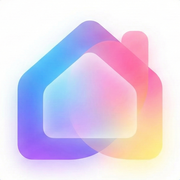
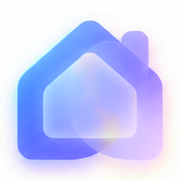
feat: アプリ名を「暮らしと精算」に変え、アイコンの色をアプリの色に合わせる
- アプリ名を「Kurasel」から「暮らしと精算」に（タイトル・iPhoneのホーム画面・manifest・ログイン画面・README）
- アイコンは形と質感はそのままに、色をスカイ〜バイオレット（アプリ内の色）に変更
  180/192/512 を透明なしの正方形で書き出し

diff --git a/app/layout.tsx b/app/layout.tsx
@@ -19,19 +19,19 @@ export const viewport: Viewport = {
   viewportFit: "cover",
 };
 
-// アプリ名は「Kurasel」、キャッチコピーは「暮らしと精算」で統一する。
+// アプリ名は「暮らしと精算」で統一する（以前の「Kurasel」から改名）。
 // iPhone のホーム画面に出る名前は appleWebApp.title、Android などは manifest の short_name。
 // アイコンは app/icon.png（ファビコン）、app/apple-icon.png（iPhone のホーム画面）、
 // public/icon-*.png（manifest）。iPhone は透明部分を黒で塗るので、どれも透明なしの正方形にしている
 export const metadata: Metadata = {
-  title: "Kurasel | 暮らしと精算",
+  title: "暮らしと精算",
   description: "レシートを撮るだけ。ふたりの日常と旅行の支出を記録して、かんたんに精算。",
-  applicationName: "Kurasel",
+  applicationName: "暮らしと精算",
   manifest: "/manifest.json",
   appleWebApp: {
     capable: true,
     statusBarStyle: "default",
-    title: "Kurasel",
+    title: "暮らしと精算",
   },
 };
 

diff --git a/app/login/page.tsx b/app/login/page.tsx
@@ -88,14 +88,14 @@ export default function LoginPage() {
         <div className="flex flex-col items-center justify-center mb-8 relative z-10">
           <img 
             src="/icon-512.png" 
-            alt="Kurasel Icon" 
+            alt="暮らしと精算のアイコン" 
             className="w-20 h-20 rounded-3xl shadow-lg mb-4 object-cover" 
           />
           <h1 className="text-3xl font-black text-slate-800 tracking-tight leading-none mb-1">
-            Kurasel
-          </h1>
-          <p className="text-sm font-bold text-slate-400 tracking-widest">
             暮らしと精算
+          </h1>
+          <p className="text-sm font-bold text-slate-400 tracking-wider">
+            ふたりの家計・旅行・個人の記録
           </p>
         </div>
 

diff --git a/README.md b/README.md
@@ -1,11 +1,9 @@
-# Kurasel 🏡
+# 暮らしと精算 🏡
 
-**暮らしと精算 (Living & Settlement)**
-
-**Kurasel** は、ふたりの暮らしとお金を整える、シンプルでモダンな精算アプリです。
+**暮らしと精算**（旧名 Kurasel）は、ふたりの暮らしとお金を整える、シンプルでモダンな精算アプリです。
 レシートを撮るだけでAIが自動入力。面倒な計算はアプリに任せて、支払いや受け取りのステータスもひと目で管理。「お金のやり取り」を事務作業から「心地よいコミュニケーション」へ変えます。
 
-<img src="/public/icon-512.png" alt="Kurasel App Icon" width="120" style="border-radius: 24px;">
+<img src="/public/icon-512.png" alt="暮らしと精算のアイコン" width="120" style="border-radius: 24px;">
 
 ## ✨ 特徴 (Features)
 
